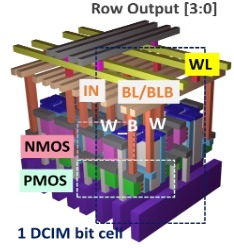
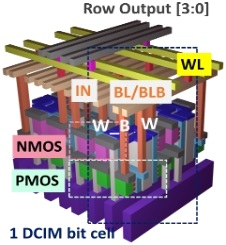
v2: Samsung mark for R3; trim L4's margin
R3 was the last monogram tile. It now shows the Samsung wordmark,
knocked out white on the same navy gradient, since the 2019 IRPS paper
has no figure to show.

L4 cannot be improved: its PDF holds a single 233x248 JPEG at 96 dpi, so
there is no detail to recover. Trimmed its 8% margin so the artwork
fills the tile; that is a framing gain, not a resolution one.

diff --git a/v2/publications.html b/v2/publications.html
@@ -123,7 +123,7 @@
 
     <div class="pub-entry" id="L4">
       <div class="pub-thumb">
-        <img src="assets/figures/pub-L4.jpg" width="234" height="248" loading="lazy"
+        <img src="assets/figures/pub-L4.jpg" width="226" height="245" loading="lazy"
              alt="Three-dimensional render of one digital compute-in-memory bit cell with word line, input, bit line and bit line bar routing above stacked NMOS and PMOS tiers, feeding a four-bit row output">
       </div>
       <div>
@@ -170,7 +170,9 @@
     </div>
 
     <div class="pub-entry" id="R3">
-      <div class="pub-thumb empty" aria-hidden="true">R3</div>
+      <div class="pub-thumb logo-tile">
+        <img src="assets/logos/samsung.png" alt="Samsung Electronics" loading="lazy">
+      </div>
       <div>
         <div class="pub-id">[R3]</div>
         <div class="pub-title">Aging-Aware Design Verification Methods Under Real Product Operating Conditions</div>

diff --git a/v2/assets/style.css b/v2/assets/style.css
@@ -394,6 +394,16 @@ section + section { border-top: 1px solid var(--line-soft); }
   padding: 6px; align-self: start;
 }
 .pub-thumb img { width: 100%; height: auto; display: block; border-radius: 3px; }
+/* an entry whose figure cannot be shown gets the employer's mark instead */
+.pub-thumb.logo-tile {
+  display: grid; place-items: center; aspect-ratio: 3 / 2; padding: 0;
+  background: linear-gradient(150deg, var(--navy) 0%, var(--navy-deep) 100%);
+  border-color: var(--navy-deep);
+}
+.pub-thumb.logo-tile img {
+  width: 66%; height: auto; filter: brightness(0) invert(1); opacity: .92;
+}
+
 /* entries without a figure get a navy monogram tile rather than a gap */
 .pub-thumb.empty {
   display: grid; place-items: center; aspect-ratio: 3 / 2; padding: 0;
